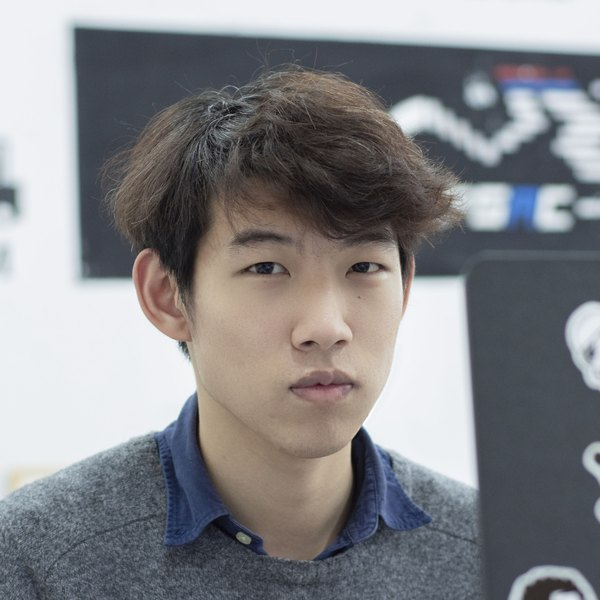
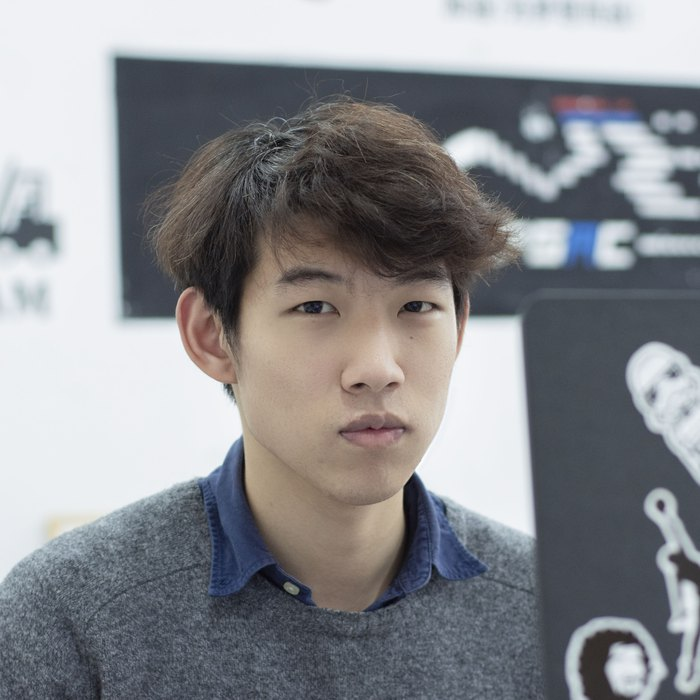
Square portrait, and drop the panel around the intro
Portrait becomes a square with 12px corners, filling the rail width instead of
a fixed 215px circle. Re-cropped from the source at a wider framing (3700px
square vs 3300px) since a circle wants a tight face crop and a square reads
better with the scene around it.

Remove the intro's border, tint and inset padding. The research cards keep
theirs. The panel had been the only thing separating the intro from News, and
#news is the first <section> so its top border was being suppressed — drop that
rule so the divider comes back.

diff --git a/style.css b/style.css
@@ -104,7 +104,8 @@ img { max-width: 100%; display: block; }
 main { max-width: var(--max); margin: 0 auto; padding: 0 2rem; }
 
 section { padding: 2.75rem 0; border-top: 1px solid var(--line); }
-section:first-of-type { border-top: 0; }
+/* The intro is a <header>, so the first <section> (News) keeps its rule
+   and provides the divider the intro panel used to give. */
 
 h2 {
   font-family: var(--serif); font-size: 1.6rem; font-weight: 600;
@@ -119,22 +120,21 @@ section > h3:first-of-type { margin-top: 0; }
 .intro {
   display: grid; grid-template-columns: 280px 1fr; gap: 3.2rem;
   align-items: start;
-  margin: 2.5rem 0 0; padding: 2.2rem;
-  border: 1px solid var(--line); border-radius: 16px;
-  background: var(--bg-soft);
+  padding: 3rem 0 3.25rem;
 }
 
 /* left rail */
 .intro-side { text-align: center; }
 .intro-photo {
-  width: 215px; height: 215px; margin: 0 auto .95rem;
-  border-radius: 50%; object-fit: cover;
-  border: 3px solid var(--bg); box-shadow: var(--shadow);
+  width: 100%; height: auto; aspect-ratio: 1 / 1;
+  margin: 0 0 1.15rem;
+  border-radius: 12px; object-fit: cover;
+  box-shadow: var(--shadow);
 }
 .intro-photo--fallback {
   display: grid; place-items: center;
   background: var(--accent-bg); color: var(--accent);
-  font: 600 3.4rem/1 var(--serif);
+  font: 600 4rem/1 var(--serif);
 }
 .intro-side h1 {
   margin: 0 0 .3rem; font-family: var(--serif);
@@ -315,9 +315,10 @@ footer p { margin: 0 0 .5rem; }
 /* ── Responsive ─────────────────────────────────────────────────────────── */
 @media (max-width: 720px) {
   body { font-size: 16px; }
-  .intro { grid-template-columns: 1fr; gap: 1.8rem; padding: 1.6rem; }
-  .intro-photo { width: 150px; height: 150px; }
-  .intro-photo--fallback { font-size: 2.6rem; }
+  .intro { grid-template-columns: 1fr; gap: 1.8rem; padding: 2rem 0 2.25rem; }
+  /* stacked: stop the square from filling the whole viewport width */
+  .intro-photo { max-width: 240px; margin: 0 auto 1.15rem; }
+  .intro-photo--fallback { font-size: 2.8rem; }
   .card { grid-template-columns: 1fr; gap: 1rem; }
   .card-thumb { max-width: 340px; }
   .news-list li { flex-direction: column; gap: .2rem; }
